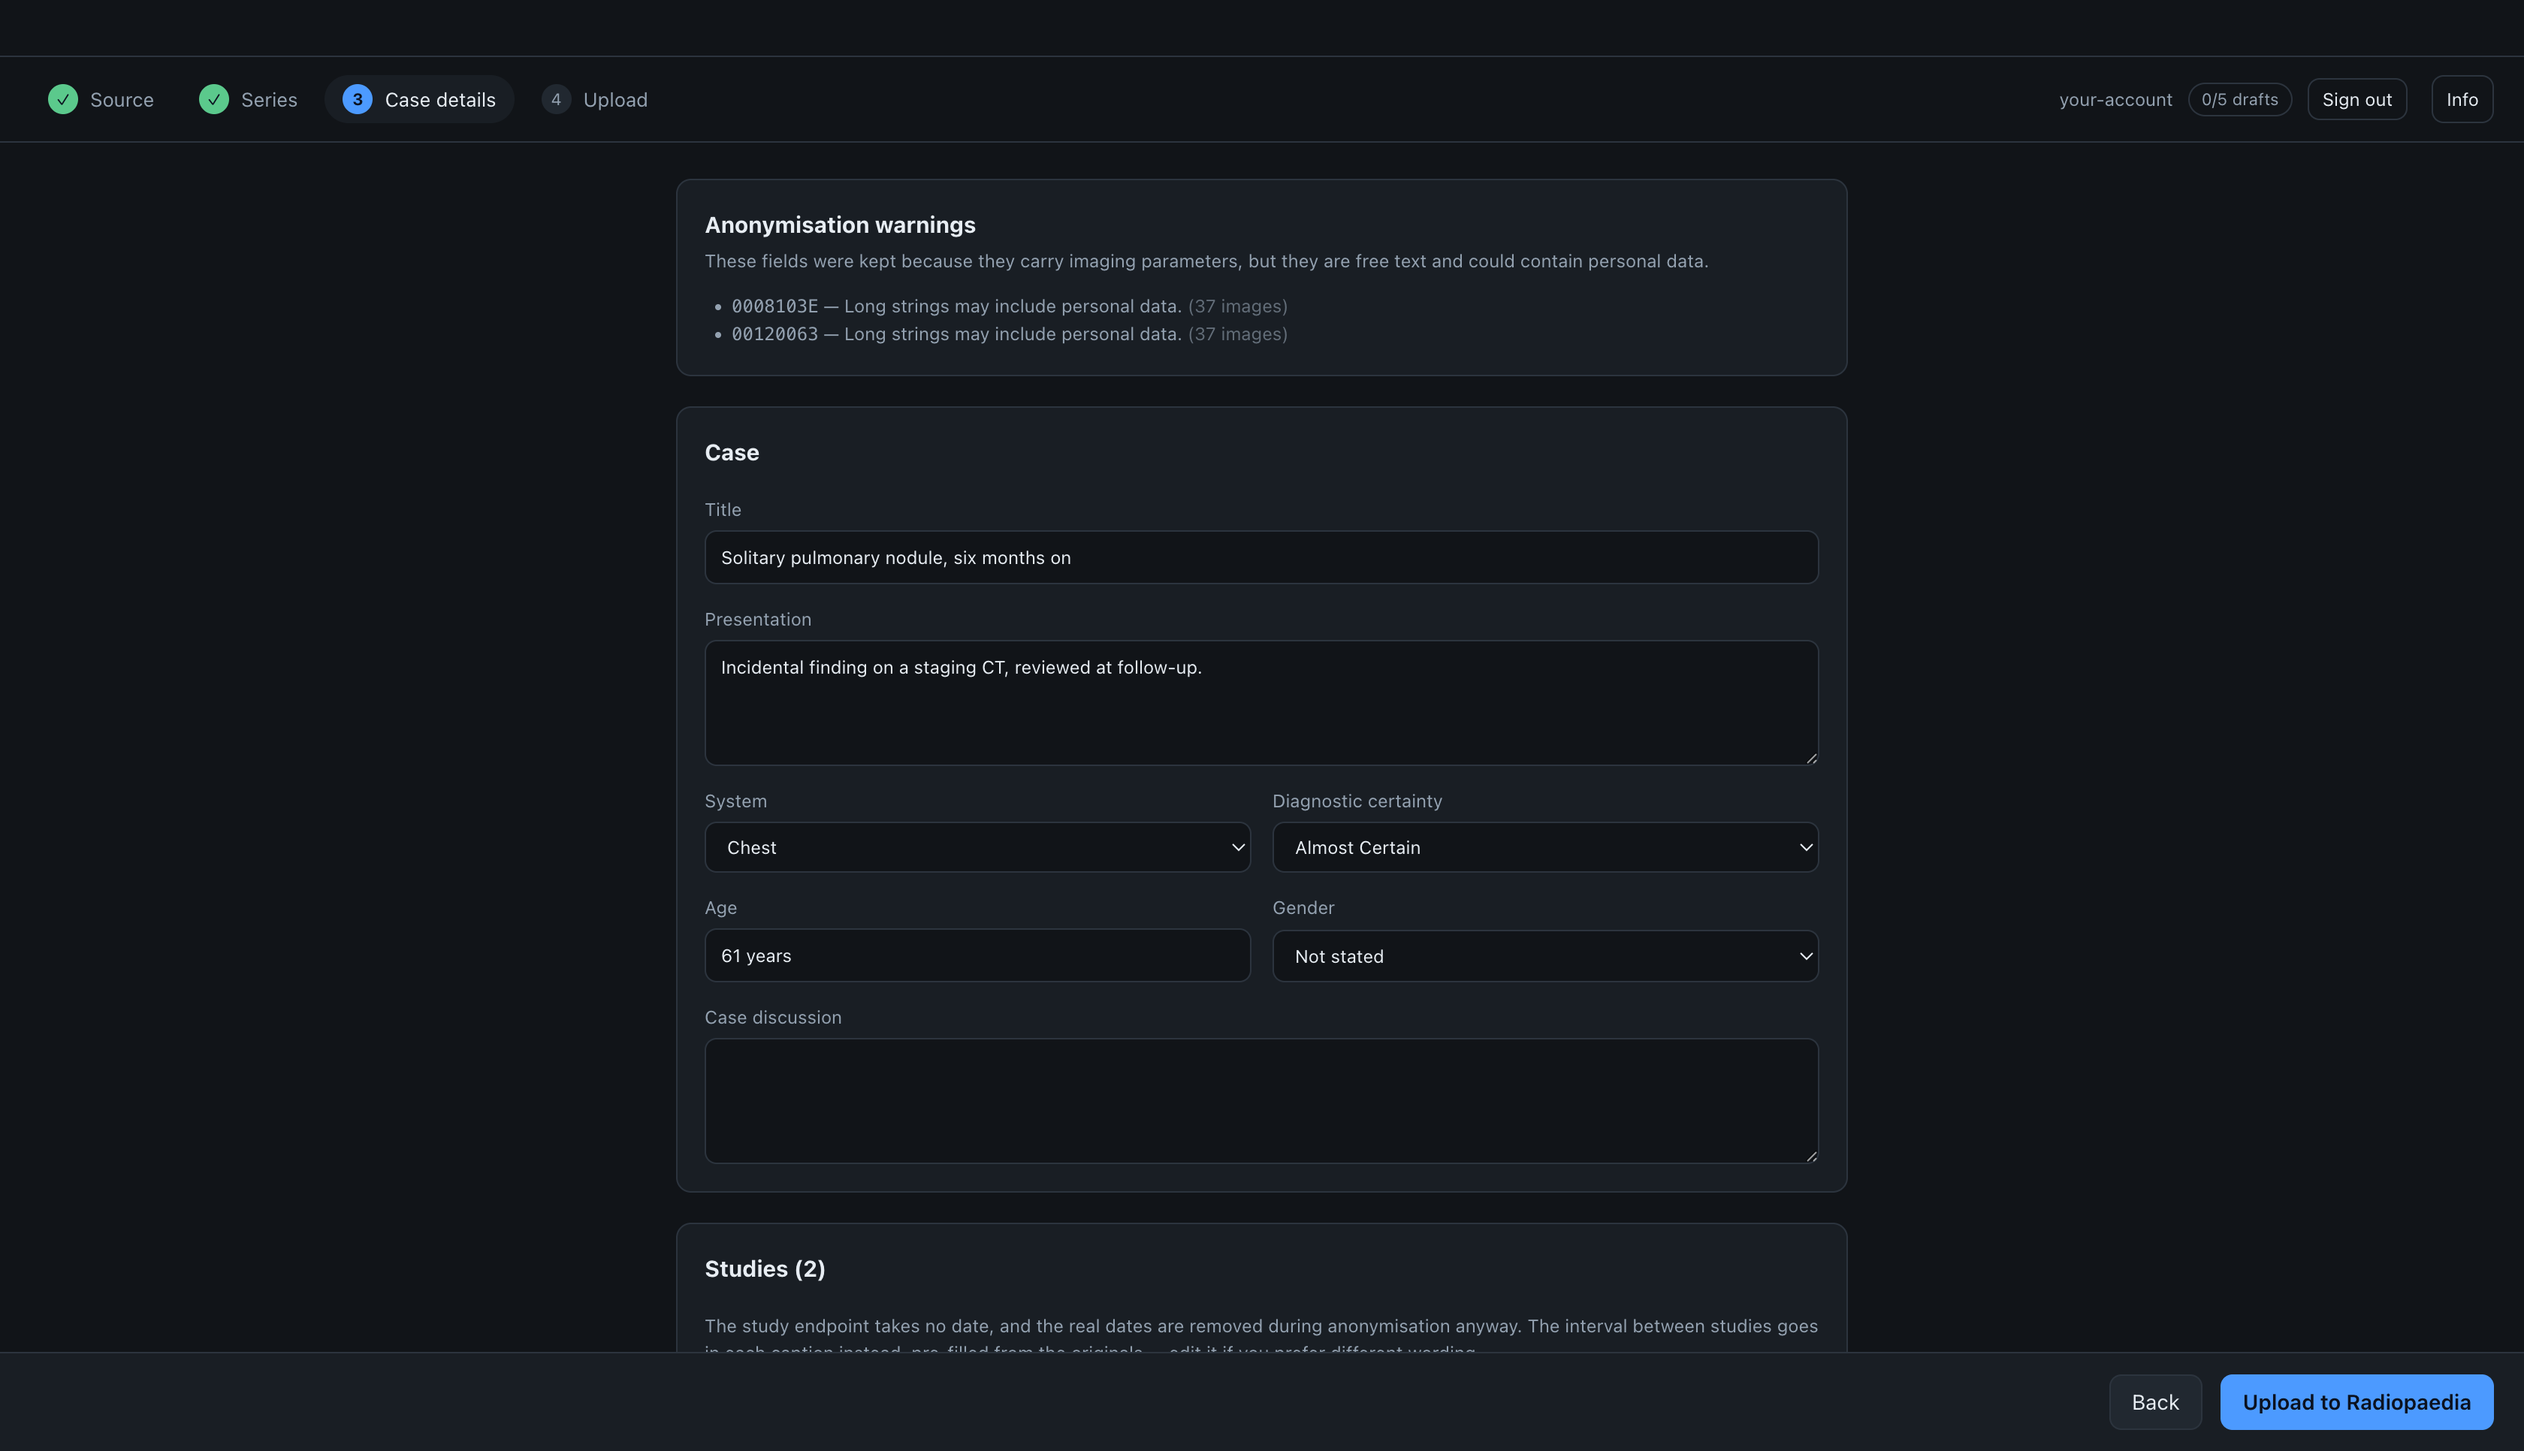
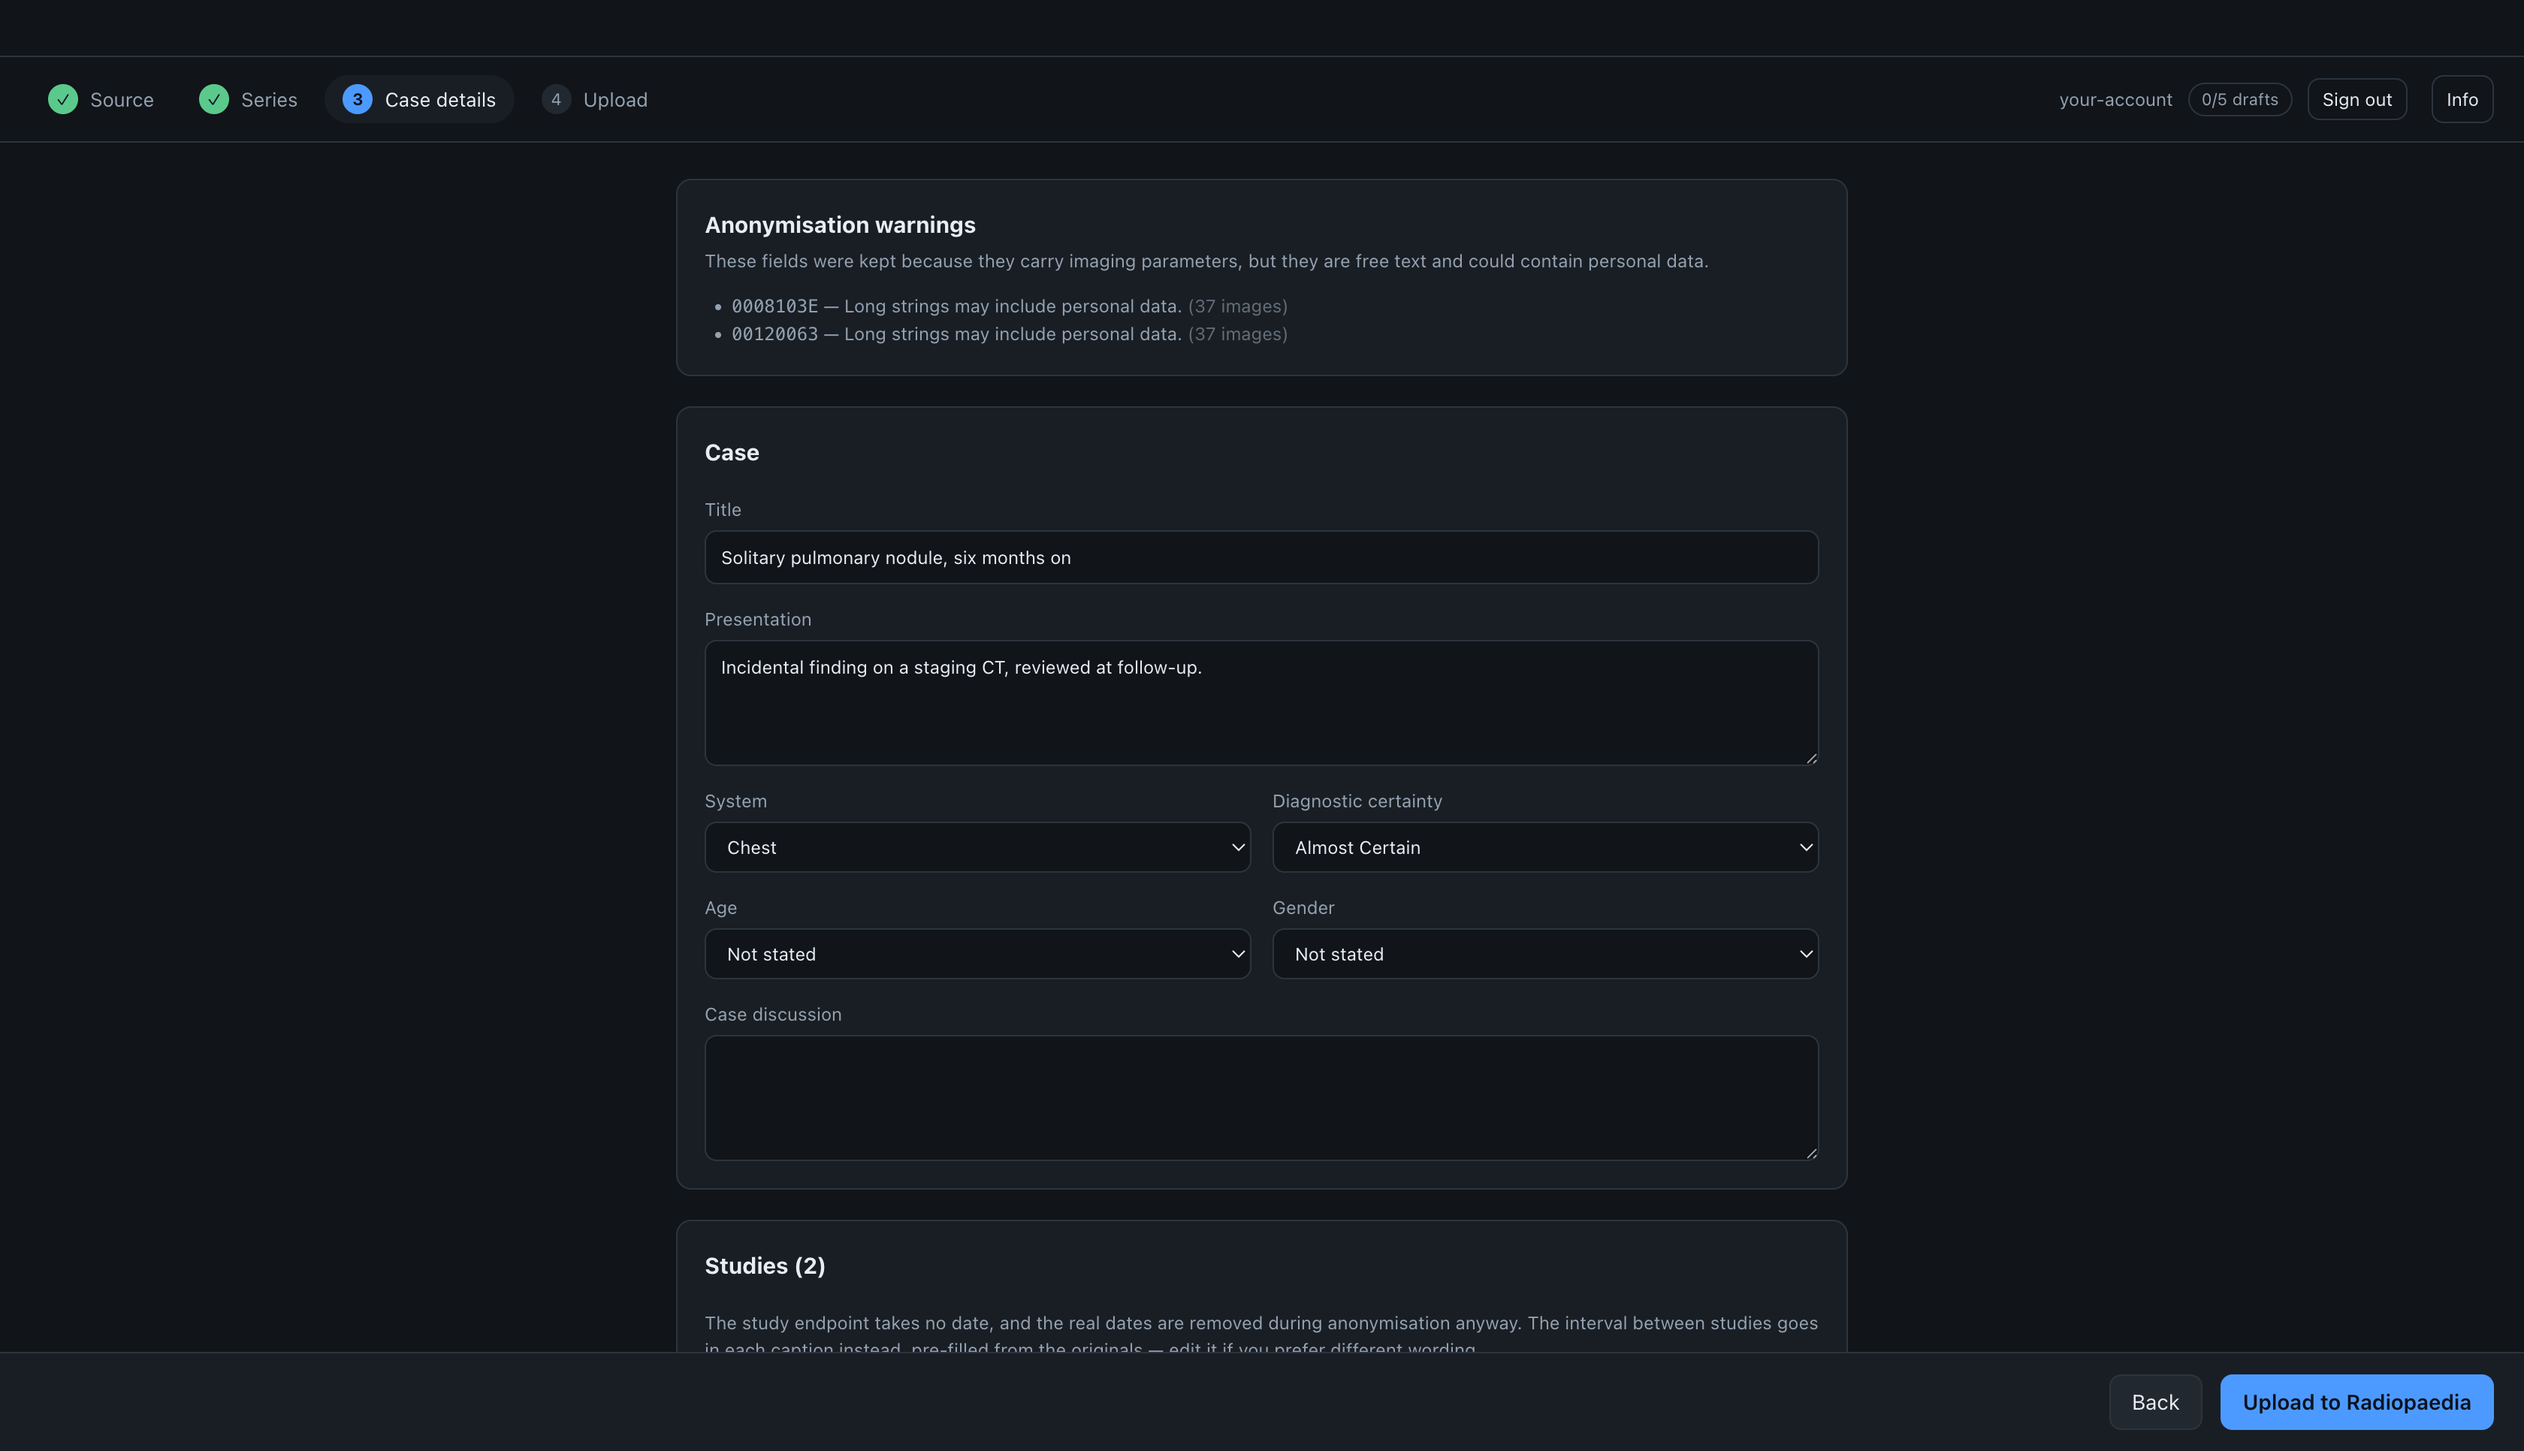
Pick the age from the list the site actually uses
Age was a free-text box with "e.g. 45 years" for a placeholder, so the value
that reached a live case was whatever had been typed — "45yo", "45", an age in
months — and there was no way to see it was wrong until the case was on
Radiopaedia. The site's own form offers whole years to 18 and then every fifth
year, so that is what the dropdown offers, spelled the way the site spells it.

The list lives in shared/radiopaedia.ts with the other closed vocabularies, for
the same reason they are there: none of them is served by the API, so they are
transcribed, and keeping them in one file is what makes a mismatch findable.

Nothing below a year is offered. Radiopaedia's list has no entry there either,
so a neonate goes up with the age not stated rather than with an age invented
to fit the field.

Changed region(s): [[0.2812, 0.8696, 0.7188, 0.9317], [0.2812, 0.6522, 0.3438, 0.7143], [0.5, 0.6522, 0.5625, 0.6832]]

diff --git a/src/renderer/src/components/CaseStep.tsx b/src/renderer/src/components/CaseStep.tsx
@@ -1,5 +1,5 @@
 import type { Study } from '@shared/types'
-import { DIAGNOSTIC_CERTAINTIES, MODALITIES, SYSTEMS } from '@shared/radiopaedia'
+import { AGE_OPTIONS, DIAGNOSTIC_CERTAINTIES, MODALITIES, SYSTEMS } from '@shared/radiopaedia'
 import { describeInterval } from '@shared/interval'
 
 export interface StudyForm {
@@ -102,7 +102,14 @@ export function CaseStep({ form, onChange, studies, warnings }: Props): React.JS
         <div className="row2">
           <label className="field">
             Age
-            <input value={form.age} onChange={(e) => set('age', e.target.value)} placeholder="e.g. 45 years" />
+            <select value={form.age} onChange={(e) => set('age', e.target.value)}>
+              <option value="">Not stated</option>
+              {AGE_OPTIONS.map((age) => (
+                <option key={age} value={age}>
+                  {age}
+                </option>
+              ))}
+            </select>
           </label>
           <label className="field">
             Gender

diff --git a/src/shared/radiopaedia.ts b/src/shared/radiopaedia.ts
@@ -39,6 +39,18 @@ export const DIAGNOSTIC_CERTAINTIES: { id: number; name: string }[] = [
 ]
 
 /**
+ * The ages the case form offers: every year to 18, then every fifth year. This
+ * field used to be free text, which let a case go live with an age written in a
+ * form the site never uses. There is no entry below a year — a case younger than
+ * that is uploaded with the age not stated.
+ */
+export const AGE_OPTIONS: string[] = [
+  '1 year',
+  ...Array.from({ length: 17 }, (_, i) => `${i + 2} years`),
+  ...Array.from({ length: 17 }, (_, i) => `${20 + i * 5} years`)
+]
+
+/**
  * The modality values the study endpoint accepts. Anything outside this list is
  * rejected; a blank value is also allowed.
  */

diff --git a/src/shared/radiopaedia.test.ts b/src/shared/radiopaedia.test.ts
@@ -1,0 +1,17 @@
+import { describe, expect, it } from 'vitest'
+import { AGE_OPTIONS } from './radiopaedia'
+
+describe('AGE_OPTIONS', () => {
+  it('runs one year at a time to 18, then five at a time', () => {
+    expect(AGE_OPTIONS.slice(0, 3)).toEqual(['1 year', '2 years', '3 years'])
+    expect(AGE_OPTIONS).toContain('18 years')
+    expect(AGE_OPTIONS).not.toContain('19 years')
+    expect(AGE_OPTIONS).toContain('20 years')
+    expect(AGE_OPTIONS).not.toContain('21 years')
+    expect(AGE_OPTIONS.at(-1)).toBe('100 years')
+  })
+
+  it('writes every value the way the site does, singular at one', () => {
+    for (const age of AGE_OPTIONS.slice(1)) expect(age).toMatch(/^\d+ years$/)
+  })
+})

diff --git a/docs/guide/upload.md b/docs/guide/upload.md
@@ -11,8 +11,11 @@ else will.
 
 ## The case
 
-`Title` and `System` are required, the rest is optional. Two notes on the taxonomy:
+`Title` and `System` are required, the rest is optional. Three notes on the taxonomy:
 
+- **Age is a list, not a number.** Every year up to 18, then every fifth year to 100, and
+  nothing below a year — the values the site itself offers. A patient younger than that
+  goes up with the age not stated.
 - **Modality is a closed enum.** `DSA (angiography)`, not "Angiography", and there is no
   PET-CT value.
 - **System ids have gaps.** 5, 10, 13 and 14 are unused, because retired systems keep their
